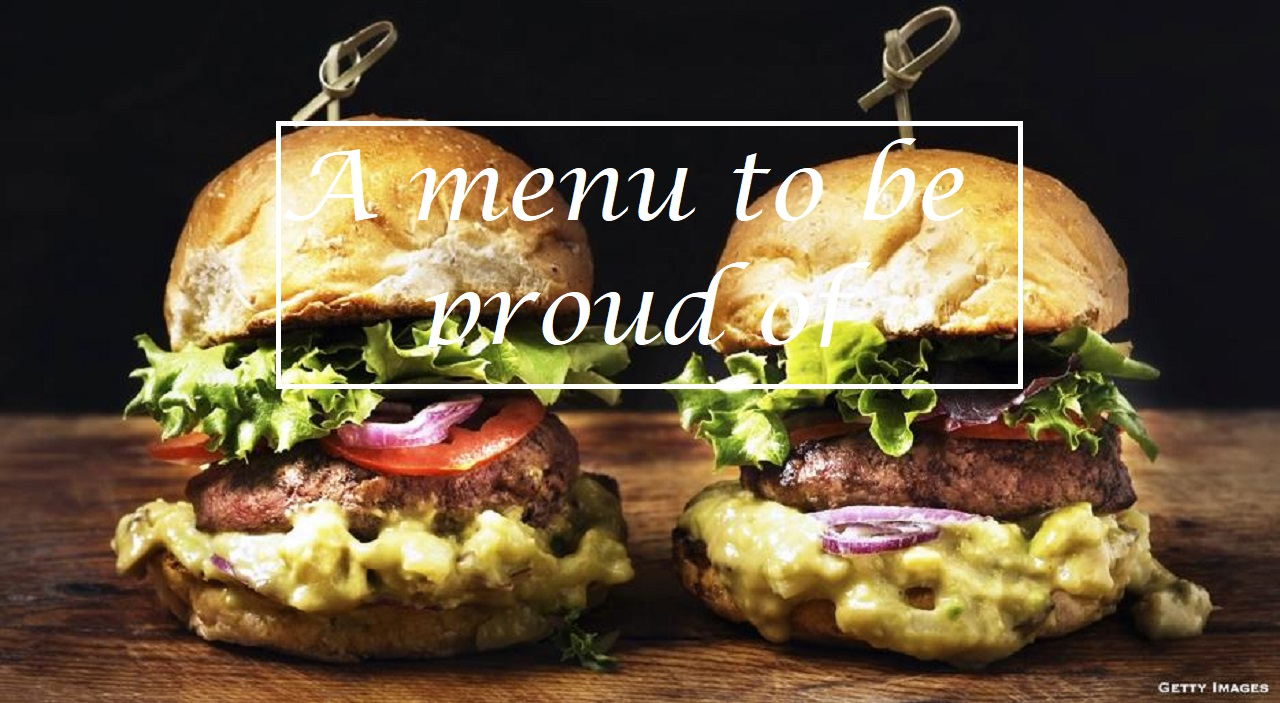
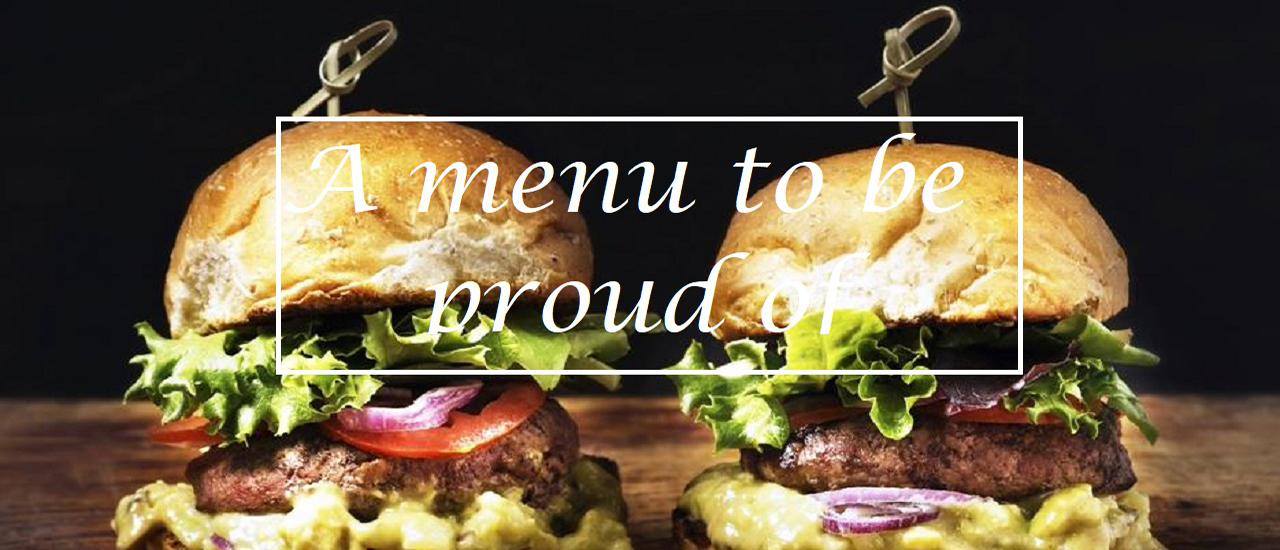
bildefiks og optimalisering på responsiveness

diff --git a/p3/meny.html b/p3/meny.html
@@ -157,7 +157,7 @@
           <p><b>Dahls pilsner (0.4L)</b> <i>- 89kr</i></p>
         </div>
         <div class="dish">
-          <p><b>Aass fatøl (0.4L)</b> <i>- 95krkr</i></p>
+          <p><b>Aass fatøl (0.4L)</b> <i>- 95kr</i></p>
         </div>
         <div class="dish">
           <p><b>Ginger joes ingefærøl (0.33L)</b> <i>- 89kr</i></p>
@@ -184,36 +184,37 @@
           <p>Vi har også flere drikkesorter, så bare spør servitøren dersom noe mangler.</p>
         </div>
       </div>
-      <hr>
-      <hr>
-      <hr>
-      <section class="foodtypeheader">
-  <h2>Ekstra informasjon</h2>
-  <p>
-  Hvis du har noen spørsmål eller ønsker noe ekstra, så er det bare å spørre servitørenene. For de er betalt og trent opp til å gjøre din opplevelse av The Fancy Pickle så god så mulig. Du kan også få konstruere din egen rett, men prisen vil endres. Vi anbefaler
-  velger en av rettene vi allerede har, fordi kombinasjonen av ingrediensene er nøye utvalgt for å gi <b>deg</b> den beste matopplevelse Tronheim har å tilby. </p>
-</section>
-      <section id="allergenliste">
-        <h4>Allergenliste:</h4>
-        <ol>
-          <li>(1) Egg |</li>
-          <li>(2) Nøtter |</li>
-          <li>(3) Melk |</li>
-          <li>(4) Soya |</li>
-          <li>(5) Gluten |</li>
-          <li>(6) Skalldyr |</li>
-          <li>(7) Citrusfrukt |</li>
-          <li>(8) Peanøtter |</li>
-          <li>(9) Bygg |</li>
-          <li>(10) Hvete |</li>
-          <li>(11) Potetstivelse |</li>
-          <li>(12) Selleri |</li>
-          <li>(13) Sennep</li>
-        </ol>
-      </section>
-      <hr>
-      <hr>
     </section>
+    <hr>
+    <hr>
+    <hr>
+    <section class="foodtypeheader">
+      <h2>Ekstra informasjon</h2>
+      <p>
+        Hvis du har noen spørsmål eller ønsker noe ekstra, så er det bare å spørre servitørenene. For de er betalt og trent opp til å gjøre din opplevelse av The Fancy Pickle så god så mulig. Du kan også få konstruere din egen rett, men prisen vil
+        endres. Vi anbefaler
+        velger en av rettene vi allerede har, fordi kombinasjonen av ingrediensene er nøye utvalgt for å gi <b>deg</b> den beste matopplevelse Tronheim har å tilby. </p>
+    </section>
+    <section id="allergenliste">
+      <h4>Allergenliste:</h4>
+      <ol>
+        <li>(1) Egg |</li>
+        <li>(2) Nøtter |</li>
+        <li>(3) Melk |</li>
+        <li>(4) Soya |</li>
+        <li>(5) Gluten |</li>
+        <li>(6) Skalldyr |</li>
+        <li>(7) Citrusfrukt |</li>
+        <li>(8) Peanøtter |</li>
+        <li>(9) Bygg |</li>
+        <li>(10) Hvete |</li>
+        <li>(11) Potetstivelse |</li>
+        <li>(12) Selleri |</li>
+        <li>(13) Sennep</li>
+      </ol>
+    </section>
+    <hr>
+    <hr>
   </div>
   <script src="scripts/navbar_and_footer.js"></script>
   <script src="scripts/language.js"></script>

diff --git a/p3/css/main.css b/p3/css/main.css
@@ -58,6 +58,13 @@ h2 {
   background-color: #f4f4f4;
 }
 
+/*Responsive content. Scales with width*/
+@media only screen and (max-device-width: 925px), screen and (max-width: 925px) {
+  .contentwrapper {
+    width: 100%;
+  }
+}
+
 .contentwrapper h2 {
   text-align: center;
 }
@@ -175,7 +182,8 @@ h2 {
     display: block;
     text-align: center;
   }
-/*Deletes placeholder */
+
+  /*Deletes placeholder */
   .topnav.responsive p {
     display: none;
   }
@@ -248,6 +256,11 @@ h2 {
 
 /*-------------------- END LANGUAGE CHANGE --------------------*/
 /*-------------------- ABOUT --------------------*/
+#contactInfo, #openingInfo {
+  width: 60%;
+  margin: 2% auto;
+}
+
 #visjon {
   margin: 20px auto;
   width: 65%;
@@ -297,6 +310,12 @@ h2 {
   border-radius: 5%;
 }
 
+@media only screen and (max-device-width: 925px), screen and (max-width: 925px) {
+  .contentwrapper {
+    width: 100%;
+  }
+}
+
 .foodline h3 {
   margin-bottom: 0;
 }
@@ -326,6 +345,11 @@ h2 {
 .foodtypeheader a:link, .foodtypeheader a:hover, .foodtypeheader a:visited, .foodtypeheader a:active {
   text-decoration: underline;
   color: black;
+}
+
+.drikkekart div, #allergenliste {
+  width: 60%;
+  margin: 2% auto;
 }
 
 #allergenliste {
@@ -449,12 +473,6 @@ hr {
   bottom: 23px;
   right: 23px;
   width: 280px;
-}
-
-.contentwrapper {
-  margin: 20px auto;
-  width: 80%;
-  background-color: #f4f4f4;
 }
 
 .respopup {

diff --git a/p3/about_eng.html b/p3/about_eng.html
@@ -33,21 +33,25 @@
     </div>
     <hr>
     <hr>
+    <div id="openingInfo">
     <h3>Opening hours</h3>
     <p><b>Monday - Thursday:</b> 11:00 - 01:00</p>
     <p><b>Friday - Saturday:</b> 10:00 - 03:00</p>
     <p><b>Sunday:</b> 12:00 - 23:00</p>
     <br>
-    <p>If we were to make any changes to the opening ours, we'll try our best to inform you as soon as possible.</p>
+<p>If we were to make any changes to the opening ours, we'll try our best to inform youas soon as possible.</p>
+  </div>
     <hr>
     <hr>
+    <div id="contactInfo">
     <h3>Additional information</h3>
-    <p><b>Email: </b>post@tfp.no</p>
+    <p><b>Email: </b><a href="mailto:post@tfp.no" target="_top">post@tfp.no</a></p>
     <p><b>Phone: </b>+47 98765432</p>
     <p><b>Adress: </b>THE FANCY PICKLE, PICKLESTREET 19, 7042 TRONDHEIM</p>
-    <hr>
-    <hr>
   </div>
+  <hr>
+  <hr>
+</div>
 
   <script src="scripts/navbar_and_footer.js"></script>
   <script src="scripts/language.js"></script>

diff --git a/p3/about.html b/p3/about.html
@@ -29,21 +29,25 @@
     </div>
     <hr>
     <hr>
+    <div id="openingInfo">
     <h3>Åpningstider</h3>
     <p><b>Mandag - Torsdag:</b> 11:00 - 01:00</p>
     <p><b>Fredag - Lørdag:</b> 10:00 - 03:00</p>
     <p><b>Søndag:</b> 12:00 - 23:00</p>
     <br>
     <p>Om det skulle bli endring i åpningstidene, så vil dette bli informert om med god margin.</p>
+    </div>
     <hr>
     <hr>
+    <div id="contactInfo">
     <h3>Tilleggsinformasjon</h3>
-    <p><b>Email: </b>post@tfp.no</p>
+    <p><b>Email: </b><a href="mailto:post@tfp.no" target="_top">post@tfp.no</a></p>
     <p><b>Telefon: </b>98765432</p>
     <p><b>Adresse: </b>THE FANCY PICKLE, PICKLESTREET 19, 7042 TRONDHEIM</p>
-    <hr>
-    <hr>
   </div>
+    <hr>
+    <hr>
+</div>
 
 
   <script src="scripts/navbar_and_footer.js"></script>

diff --git a/p3/galleri.html b/p3/galleri.html
@@ -14,7 +14,7 @@
     <section class="foodtypeheader">
       <h1>Bildegalleri</h1>
       <p>På denne siden kan du bla deg igjennom en rekke bilder fra vår restaurant. Vi har planer om å utvide, men for å gjøre dette
-        trenger vi deres hjelp! Hvis du har et bilde fra vår restuarant, kan du tagge det med #fancypickle eller sende det til oss på en mail
+        trenger vi deres hjelp! Hvis du har et bilde fra vår restaurant, kan du tagge det med #fancypickle eller sende det til oss på en mail
         til <a href="mailto:bilder@tfp.no?Subject=Bilder" target="_top">BILDER@TFP.NO</a>
     </section>
     <hr>

diff --git a/p3/scripts/reservation.js b/p3/scripts/reservation.js
@@ -1,4 +1,5 @@
-document.getElementById("resContent").style.minHeight = "500px"
+document.getElementById("resContent").style.minHeight = "1200px"
+
 
 //---------------Reservation form ---------------
 /* Open or close reservation form*/
